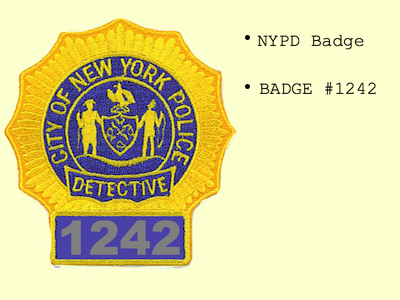
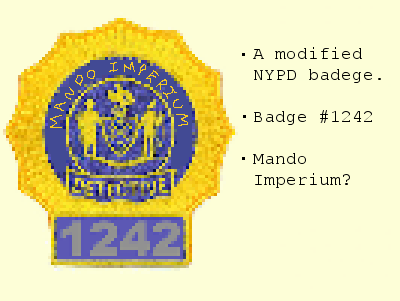
moving clues, editing assets.

diff --git a/scripts/main.js b/scripts/main.js
@@ -164,7 +164,7 @@ function init() {
 	console.log(boyce.questions);
 	
 	//Adding guy1
-	guy1 = new NPC(-1300, 200, 1, "./assets/guy1.png", 170, 169, "guy2");
+	guy1 = new NPC(-1300, 240, 1, "./assets/guy1.png", 131, 130, "guy2");
 	beachMap.map_Objects.push(guy1);
 		
 	//Adding Petey (NPC object instance)
@@ -184,7 +184,7 @@ function init() {
 	cityMap.map_Objects.push(container);
 
 	//Adding creep guy
-	guy2 = new NPC(400, 450, 1, "./assets/guy2.png",56,141, "creep");
+	guy2 = new NPC(400, 450, 1, "./assets/guy2.png",54,135, "creep");
 	cityMap.map_Objects.push(guy2);
 	
 	//Adding phone booth
@@ -194,24 +194,18 @@ function init() {
 	//Adding trashCan
 	trashCan = new NPC(-200, 450, 1, "./assets/trashCan2.png", 90, 98, "trashCan");
 	cityMap.map_Objects.push(trashCan);
-	
-	//Adding badge
-	badge = new Clue(-600, 420, 1, "./assets/badgeSprite.png", 24,28, "badge");
- 	badge.clueInfo = makeInfoSprite("./assets/badge.png");
- 	cityMap.map_Objects.push(badge);
-	
+
 	//phone booth contains secretClue2
  	secretClue2 = new Clue(0, -30, 1, "./assets/secret2.png", 24, 24, "A");
  	secretClue2.clueInfo = makeInfoSprite("./assets/secret2_info.png");
  	secretClue2.secret = true;
  	cityMap.map_Objects.push(secretClue2);
  	
- 	//Secret clues
- 
-	secretClue5 = new Clue(-300, 500, 1, "./assets/secret5.png", 24, 24, "D");
- 	secretClue5.clueInfo = makeInfoSprite("./assets/secret5_info.png");
-	secretClue5.secret = true;
-	cityMap.map_Objects.push(secretClue5);
+ 	//trash can contains secretClue4
+	secretClue4 = new Clue(-300, -30, 1, "./assets/secret4.png", 24, 24, "D");
+ 	secretClue4.clueInfo = makeInfoSprite("./assets/secret4_info.png");
+	secretClue4.secret = true;
+	cityMap.map_Objects.push(secretClue4);
 
 	cityMap.map_Objects.push(inventory);
 	cityMap.map_Objects.push(player);
@@ -226,11 +220,11 @@ function init() {
 	cityMap2.map_Objects.push(container);
 
 	//Adding creep guy
-	guy3 = new NPC(-800, 450, 1, "./assets/guy2.png",56,141, "creep2");
+	guy3 = new NPC(-800, 450, 1, "./assets/guy2.png",54,135, "creep2");
 	cityMap2.map_Objects.push(guy3);
 	
 	//Adding Cop (NPC object instance)
-	cop2 = new NPC(-900, 450, 1, "./assets/Copper.png", 35, 135, "cop_city2");
+	cop2 = new NPC(-900, 450, 1, "./assets/boyce_sprite.png", 40, 135, "cop_city2");
 	cityMap2.map_Objects.push(cop2);
 
 	//Adding phone booth
@@ -277,15 +271,21 @@ function init() {
 	barberDead = new NPC(400, 250, 1, "./assets/barberDead.png", 132, 42, "barberDead");
 	barberMap2.map_Objects.push(barberDead);
 	
+	//secret clue 3
 	secretClue3 = new Clue(-1200, 300, 1, "./assets/secret3.png", 24, 24, "N");
  	secretClue3.clueInfo = makeInfoSprite("./assets/secret3_info.png");	
  	secretClue3.secret = true;
  	barberMap2.map_Objects.push(secretClue3);
  	
- 	//receiptSprite
+ 	//receipt clue
 	receipt = new Clue(-1200, 400, 1, "./assets/receiptSprite.png", 20,32, "receipt");
  	receipt.clueInfo = makeInfoSprite("./assets/Receipt.png");
  	barberMap2.map_Objects.push(receipt);
+ 	
+ 	//badge clue
+	badge = new Clue(-1300, 550, 1, "./assets/badgeSprite.png", 24,28, "badge");
+ 	badge.clueInfo = makeInfoSprite("./assets/badge.png");
+ 	cityMap.map_Objects.push(badge);
 
 	barberMap2.map_Objects.push(inventory);
 	barberMap2.map_Objects.push(player);
@@ -306,11 +306,12 @@ function init() {
 	//Adding trashCan
 	trashCanNYPD = new NPC(125, 200, 1, "./assets/trashCan.png", 90, 121, "trashCanNYPD");
 	nypdMap.map_Objects.push(trashCanNYPD);
-	
-	secretClue3 = new Clue(200, 200, 1, "./assets/secret3.png", 24, 24, "N");
- 	secretClue3.clueInfo = makeInfoSprite("./assets/secret3_info.png");
- 	secretClue3.secret = true;
- 	nypdMap.map_Objects.push(secretClue3);
+ 	
+ 	//Secret clues
+	secretClue5 = new Clue(100, 100, 1, "./assets/secret5.png", 24, 24, "D");
+ 	secretClue5.clueInfo = makeInfoSprite("./assets/secret5_info.png");
+	secretClue5.secret = true;
+	cityMap.map_Objects.push(secretClue5);
 
  	nypdMap.map_Objects.push(inventory);
 	nypdMap.map_Objects.push(player);
@@ -327,7 +328,7 @@ function init() {
 	endStatsMap.map_Objects.push(bg_rect);
 
 	//Show point counter
-	clue_stat_text = new createjs.Text("Number of clues found: " +  found_clues.length + "/" + clues.length, "16px Arial", "#FF0000");
+	clue_stat_text = new createjs.Text("Number of clues found: " +  points + "/10", "16px Arial", "#FF0000");
 	clue_stat_text.x = 250;
 	clue_stat_text.y = 300;
 	endStatsMap.map_Objects.push(clue_stat_text);

diff --git a/scripts/objects.js b/scripts/objects.js
@@ -341,10 +341,10 @@
 		if(!this.discovered){			//if the clue has not been discovered
 			this.discovered = true; 	//change it to discovered
 			addToInventory(this);		//add the clue to the inventory
+			points+=1;
 			if(this.secret){
 				secrets.push(this);
-			}else{
-				points+=1;
+				secretPoints+=1;
 			}
 			console.log("points:" + points + "secrets:" + secretPoints);
 		}

diff --git a/scripts/dialogue.js b/scripts/dialogue.js
@@ -219,6 +219,7 @@ function showDialogue(targetDialogue, state){
 	}
 	if(targetDialogue == "trashCan"){
 		textContainer.removeAllChildren();
+		secretClue4.handleClick();
 		player.immobile = false;
 	}
 	
